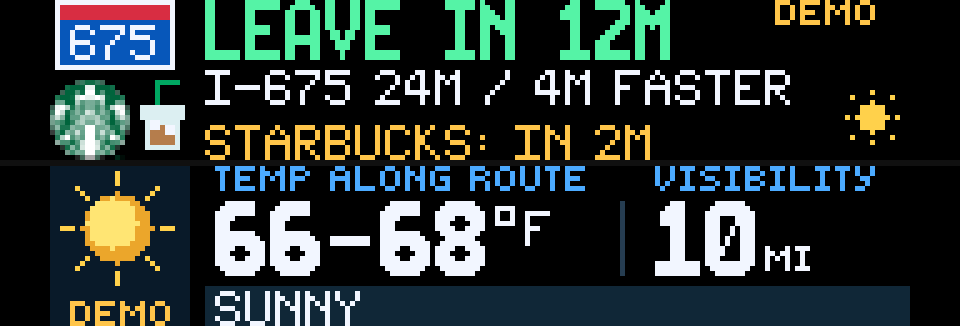
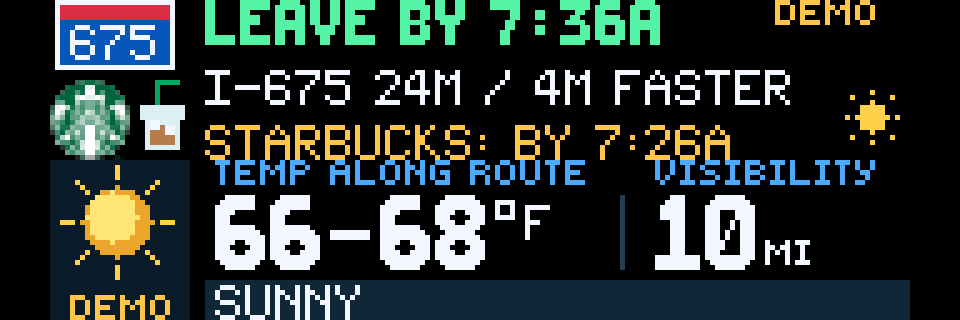
Fix Commute settings and five-minute departure display

diff --git a/apps/commute/tests/check_behavior.py b/apps/commute/tests/check_behavior.py
@@ -1,0 +1,174 @@
+"""Offline checks through the native GDN Starlark runtime.
+
+From a checkout with the SDK dependencies installed:
+    python -B apps/commute/tests/check_behavior.py
+No test accesses the network or uses real credentials.
+"""
+import copy
+import datetime
+from pathlib import Path
+import unittest
+from unittest.mock import patch
+
+from gdn.fonts import get_glyphs, text_width
+from gdn.runner import load_manifest
+from gdn.starhost import executor
+
+APP = Path(__file__).resolve().parents[1]
+NOW = datetime.datetime(2026, 9, 27, 11, 24, tzinfo=datetime.timezone.utc)
+UNIX = int(NOW.timestamp())
+KEY = "test-only-key"
+
+
+def fixture():
+    return {
+        "schema": 1, "state": "ok", "updatedAt": UNIX, "stale": False,
+        "checkedTime": "7:24A", "arriveBy": "08:00", "stopEnabled": True,
+        "stopName": "STARBUCKS", "stopState": "ok",
+        "direct": {"road": {"kind": "interstate", "number": "675", "label": "I-675"},
+                   "minutes": 24, "leaveAt": UNIX + 720, "leaveBy": "7:36A"},
+        "stop": {"road": {"kind": "interstate", "number": "675", "label": "I-675"},
+                 "minutes": 34, "leaveAt": UNIX + 120, "leaveBy": "7:26A"},
+        "weather": {"kind": "sun", "temperatureF": 68, "description": "SUNNY"},
+        "sources": {"weatherAlerts": {"state": "ok"}, "roads": {"state": "ok"}},
+        "alerts": {"direct": [], "stop": []},
+    }
+
+
+def texts(scene, page="main"):
+    return [op["text"] for item in scene["pages"] if item["name"] == page
+            for op in item["ops"] if op["op"] == "text"]
+
+
+class Compatibility(unittest.TestCase):
+    def render(self, settings=None, data=None, status=200):
+        calls = []
+        payload = fixture() if data is None else data
+
+        def get(_host, url, headers=None, params=None, ttl_seconds=300):
+            calls.append({"url": url, "headers": headers, "params": params, "ttl": ttl_seconds})
+            return {"status_code": status, "json": copy.deepcopy(payload), "body": "", "error": None}
+
+        with patch.object(executor.HttpHost, "get", get):
+            scene = executor.run_star_app(APP, settings or {}, now=NOW)
+        return scene, calls
+
+    def live(self, **settings):
+        return {"endpoint": "example.invalid/status", "readkey": KEY, **settings}
+
+    def test_endpoint_forms_preserve_authenticated_request_and_scene(self):
+        expected_scene = None
+        for endpoint in ["example.invalid/status", "  example.invalid/status  ", "https://example.invalid/status"]:
+            with self.subTest(endpoint=endpoint):
+                scene, calls = self.render(self.live(endpoint=endpoint))
+                self.assertEqual(calls, [{"url": "https://example.invalid/status",
+                                         "headers": {"Authorization": "Bearer " + KEY},
+                                         "params": {"arriveby": "Configured"}, "ttl": 60}] * 2)
+                if expected_scene is not None:
+                    self.assertEqual(scene, expected_scene)
+                expected_scene = scene
+                self.assertIn("LEAVE BY 7:36A", texts(scene))
+
+    def test_invalid_endpoints_never_send_credentials(self):
+        for endpoint in ["https", "http://example.invalid/status", "example", "//example.invalid/status",
+                         "user@example.invalid/status", "example.invalid:443/status", "bad host.invalid/status",
+                         "example.invalid/status?key=x", "https://example.invalid/status#fragment",
+                         "-bad.invalid/status", "bad..invalid/status"]:
+            with self.subTest(endpoint=endpoint):
+                scene, calls = self.render(self.live(endpoint=endpoint))
+                self.assertIn("INVALID URL", texts(scene))
+                self.assertEqual(calls, [])
+
+    def test_missing_setup_never_fetches(self):
+        for settings in [{}, {"endpoint": "example.invalid/status"}, {"readkey": KEY}]:
+            scene, calls = self.render(settings)
+            self.assertIn("SETUP REQUIRED", texts(scene))
+            self.assertEqual(calls, [])
+
+    def test_arrival_presets_and_legacy_values_preserve_worker_contract(self):
+        for supplied, expected in [("8 AM", "08:00"), ("8.15 AM", "08:15"), ("8.30 AM", "08:30"),
+                                   ("08:00", "08:00"), ("08:15", "08:15"), ("08:30", "08:30"),
+                                   ("Configured", "Configured"), ("08", "Configured")]:
+            with self.subTest(arrivetime=supplied):
+                _, calls = self.render(self.live(arrivetime=supplied))
+                self.assertEqual([call["params"] for call in calls], [{"arriveby": expected}] * 2)
+
+    def test_new_and_legacy_arrival_choices_have_identical_demo_scenes(self):
+        for current, legacy in [("8 AM", "08:00"), ("8.15 AM", "08:15"), ("8.30 AM", "08:30")]:
+            for scenario in ["Interstate", "Leave now", "Late", "Stop too late"]:
+                newer, calls = self.render({"demo": scenario, "arrivetime": current})
+                older, old_calls = self.render({"demo": scenario, "arrivetime": legacy})
+                self.assertEqual(newer, older)
+                self.assertEqual(calls + old_calls, [])
+
+    def test_absolute_deadlines_and_urgency_fit_in_display(self):
+        for offset, label, color in [(720, "LEAVE BY 7:36A", "#55F3A6"),
+                                     (299, "LEAVE BY 7:36A", "#FFC54A"),
+                                     (0, "LEAVE BY 7:36A", "#FFC54A"),
+                                     (-1, "LATE / BY 7:36A", "#FF5964")]:
+            data = fixture()
+            data["direct"]["leaveAt"] = UNIX + offset
+            scene, _ = self.render(self.live(), data)
+            headline = next(op for op in scene["pages"][0]["ops"] if op.get("text") == label)
+            self.assertEqual(headline["color"], color)
+            self.assertLessEqual(headline["x"] + text_width(headline["font"], label), 151)
+            self.assertTrue(all(char in get_glyphs(headline["font"]) for char in label))
+            self.assertFalse(any("LEAVE IN" in text or "MIN LATE" in text for text in texts(scene)))
+
+    def test_stop_deadline_and_missing_time(self):
+        scene, _ = self.render(self.live(trip="Stopover"))
+        self.assertIn("LEAVE BY 7:26A", texts(scene))
+        self.assertIn("DIRECT: BY 7:36A", texts(scene))
+        data = fixture()
+        data["direct"].pop("leaveBy")
+        scene, _ = self.render(self.live(), data)
+        self.assertIn("CHECK LEAVE TIME", texts(scene))
+
+    def test_long_stop_name_preserves_complete_upcoming_or_missed_deadline(self):
+        for offset, suffix in [(120, ": BY 7:26A"), (-1, ": MISSED 7:26A")]:
+            data = fixture()
+            data["stopName"] = "NEIGHBORHOOD COFFEE SHOP WITH A LONG NAME"
+            data["stop"]["leaveAt"] = UNIX + offset
+            scene, _ = self.render(self.live(), data)
+            footer = next(op for op in scene["pages"][0]["ops"]
+                          if op["op"] == "text" and op["y"] == 25)
+            self.assertTrue(footer["text"].endswith(suffix), footer["text"])
+            self.assertIn("..", footer["text"])
+            self.assertLessEqual(footer["x"] + text_width(footer["font"], footer["text"]), 181)
+
+    def test_three_minute_freshness_cutoff_is_unchanged(self):
+        for age, stale in [(180, False), (181, True), (-31, True)]:
+            data = fixture()
+            data["updatedAt"] = UNIX - age
+            scene, _ = self.render(self.live(), data)
+            self.assertEqual("TRAFFIC STALE" in texts(scene), stale)
+
+    def test_weather_warning_still_overrides_stale_traffic(self):
+        data = fixture()
+        data["stale"] = True
+        data["alerts"]["direct"] = [{"kind": "weather", "severity": "Extreme",
+                                      "title": "TORNADO WARNING", "detail": "TAKE SHELTER NOW"}]
+        scene, _ = self.render(self.live(), data)
+        self.assertIn("TORNADO WARNING", texts(scene))
+        self.assertIn("TORNADO WARNING", texts(scene, "routeweather"))
+
+    def test_failed_request_keeps_error_state(self):
+        for status in [0, 401, 500]:
+            scene, _ = self.render(self.live(), status=status)
+            self.assertIn("NO LIVE DATA", texts(scene))
+
+    def test_all_demos_and_views_render_without_network(self):
+        manifest = load_manifest(APP)
+        demos = next(item["choices"] for item in manifest["inputs"] if item["key"] == "demo")
+        for scenario in demos:
+            if scenario == "Live":
+                continue
+            for mode in ["Departure", "Routes", "Conditions"]:
+                with self.subTest(demo=scenario, viewmode=mode):
+                    scene, calls = self.render({"demo": scenario, "viewmode": mode})
+                    self.assertEqual(len(scene["pages"]), 2)
+                    self.assertEqual(calls, [])
+
+
+if __name__ == "__main__":
+    unittest.main(verbosity=2)

diff --git a/apps/commute/README.md b/apps/commute/README.md
@@ -6,11 +6,11 @@ This app uses your own authenticated Commute service. The companion source and s
 
 ## Settings
 
-- **Commute status URL:** your service's HTTPS `/status` URL.
+- **Commute status URL:** your service's hostname and `/status`, such as `example.workers.dev/status`, without `https://`. The app adds HTTPS when requesting data. Full HTTPS URLs remain supported for existing settings and local previews, but colon-free settings are recommended for the device.
 - **Commute read key:** your private `READ_KEY`. This API-key field is encrypted by Glance; do not enter a routing provider key here.
 - **Display:** Departure (default), Routes or Conditions. The first page is the selected commute view; the second shows route weather.
 - **Today's trip:** Direct or Stopover.
-- **Arrive by:** your configured time, 8:00, 8:15 or 8:30 AM in your configured time zone.
+- **Arrive by:** Configured, 8 AM, 8.15 AM or 8.30 AM in your configured time zone. The app converts these colon-free choices to the service's existing time format; older saved `08:00`, `08:15` and `08:30` values remain supported.
 - **Preview scenario:** Live, or a visibly marked demo. Demos do not use the network.
 
 Your private service holds the home, destination, optional stop and API keys. Stop duration defaults to five minutes. Addresses and stop names are configurable; Starbucks is not required.
@@ -25,11 +25,11 @@ Ohio users can keep `ohgo: true` and their `OHGO_KEY` to add the existing incide
 
 ## Display
 
-The departure view puts the leave countdown, recommended route and the optional stop deadline together. Starbucks has its logo and an iced-coffee illustration. No arrival cushion is added. Routes and Conditions are selectable detail views; urgent weather alerts take priority in every view. Missing supplemental data does not displace the departure information.
+The departure view puts the absolute local leave-by time, recommended route and optional stop deadline together. Absolute deadlines remain readable between refreshes; there is no running countdown. A deadline less than five minutes away is amber, and a deadline already missed when rendered is red. Starbucks has its logo and an iced-coffee illustration. No arrival cushion is added. Routes and Conditions are selectable detail views; urgent weather alerts take priority in every view. Missing supplemental data does not displace the departure information.
 
 Traffic is provided by TomTom, weather by NWS, and Ohio road events by OHGO. Waze navigation links do not provide Waze ETAs. "Normal" is the provider's historical duration. Leave-by is estimated from the current ETA, not a future-departure routing prediction.
 
-The app requests refreshes every 60 seconds. Actual display timing also depends on the service and Glance. Traffic older than three minutes is visibly stale. Missing alert feeds stay unknown. OHGO reports are near the route and may concern adjacent or opposite-direction roads; county snow-emergency levels require a separate verified official-source adapter.
+The app requests refreshes every five minutes, as required for its text and encrypted-key settings. Actual display timing also depends on the service and Glance. Traffic responses are cached for 60 seconds; traffic older than three minutes at render time is visibly stale. Between refreshes, the display remains a snapshot: estimates and alert state may change before the next frame. The companion remains available for current trip details. Missing alert feeds stay unknown. OHGO reports are near the route and may concern adjacent or opposite-direction roads; county snow-emergency levels require a separate verified official-source adapter.
 
 ![Sample departure screen](preview/preview.png)
 

diff --git a/apps/commute/service/SETUP.md b/apps/commute/service/SETUP.md
@@ -73,13 +73,15 @@ After the first scheduled collection, open the Worker root URL in a browser. Ent
 
 In Glance, configure:
 
-- **Status URL:** the Worker's HTTPS URL ending in `/status`.
+- **Status URL:** the Worker's hostname ending in `/status`, without `https://` (for example, `example.workers.dev/status`). The app adds HTTPS internally. Existing full HTTPS URLs remain accepted, but use the colon-free form on the device.
 - **Read key:** the separate `READ_KEY`, entered into the encrypted API-key field.
 - **Today's trip:** Direct or Stopover.
-- **Arrive by:** Configured, 08:00, 08:15 or 08:30.
+- **Arrive by:** Configured, 8 AM, 8.15 AM or 8.30 AM. These colon-free settings map to the service's existing `HH:MM` format; old saved values remain accepted.
 - **Preview scenario:** Live.
 
 Use the normal GDN catalogue submission/review workflow for distribution. Passing local validation does not install the app on a device or make it available in the catalogue.
+
+The Glance frame refreshes every five minutes and shows absolute local leave-by times. The service's collection schedule is unchanged. Traffic older than three minutes when rendered still shows as stale; a frame remains a snapshot until its next refresh. Use the companion for current estimates between Glance refreshes.
 
 ## 5. Optional county snow levels
 
